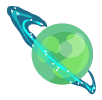
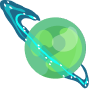
changed CSS classes and ids names

diff --git a/templates/index.html b/templates/index.html
@@ -22,47 +22,47 @@
   </head>
   <body>
     <header>
-      <div class="selectionMenu">
-        <ul id="selectionMenuList">
-          <li class="selectionMenuListElement">
-            <img src="../images/Planet1.png" alt="Planet1" id="planetOne" />
-            <a href="#about" id="selectionMenuAboutRef">Обо мне</a>
+      <div class="selection-menu">
+        <ul id="selection-menu-list">
+          <li class="selection-menu-list-element">
+            <img src="../images/Planet1.png" alt="Planet1" id="planet-one" />
+            <a href="#about" id="selection-menu-about-ref">Обо мне</a>
           </li>
-          <li class="selectionMenuListElement">
-            <img src="../images/Planet2.png" alt="Planet2" id="planetTwo" />
-            <a href="#projects" id="selectionMenuProjectsRef">Проекты</a>
+          <li class="selection-menu-list-element">
+            <img src="../images/Planet2.png" alt="Planet2" id="planet-two" />
+            <a href="#projects" id="selection-menu-projects-ref">Проекты</a>
           </li>
-          <li class="selectionMenuListElement">
-            <img src="../images/Planet3.png" alt="Planet3" id="planetThree" />
-            <a href="#contacts" id="selectionMenuContactsRef">Контакты</a>
+          <li class="selection-menu-list-element">
+            <img src="../images/Planet3.png" alt="Planet3" id="planet-three" />
+            <a href="#contacts" id="selection-menu-contacts-ref">Контакты</a>
           </li>
         </ul>
       </div>
     </header>
 
     <div id="about">
-      <div class="aboutHeader">
-        <h1 class="aboutIntro">Привет! Меня зовут Дима, <br />и я Python Developer!</h1>
-        <img src="../images/about_avatar.jpg" alt="Avatar of Khorkov Dmitriy" class="aboutAvatar" />
+      <div class="about-header">
+        <h1 class="about-intro">Привет! Меня зовут Дима, <br />и я Python Developer!</h1>
+        <img src="../images/about_avatar.jpg" alt="Avatar of Khorkov Dmitriy" class="about-avatar" />
       </div>
-      <div class="aboutDescription">
+      <div class="about-description">
         <h1 id="characteristics">Developer</h1>
         <h1>Обо мне:</h1>
-        <h3 id="aboutInfoText"></h3>
+        <h3 id="about-info-text"></h3>
       </div>
-      <div class="aboutSkills">
+      <div class="about-skills">
         <h1>Что я умею:</h1>
-        <ul id="skillsList">
-          <li class="skillsListElement">Создавать телеграмм ботов</li>
-          <li class="skillsListElement">
+        <ul id="skills-list">
+          <li class="skills-list-element">Создавать телеграмм ботов</li>
+          <li class="skills-list-element">
             Создавать WEB-приложения на основе таких фреймворков как Django и FastApi + HTML, CSS, JavaScript
           </li>
-          <li class="skillsListElement">Создавать REST-api (предпочитаю тот же FastApi под капотом)</li>
-          <li class="skillsListElement">
+          <li class="skills-list-element">Создавать REST-api (предпочитаю тот же FastApi под капотом)</li>
+          <li class="skills-list-element">
             Работать SQL и NOSQL СУБД: PostgreSQL, MySQL, SQLite, MongoDB (предпочитаю через SQLAlchemy)
           </li>
-          <li class="skillsListElement">Изолировать систему через Docker</li>
-          <li class="skillsListElement">
+          <li class="skills-list-element">Изолировать систему через Docker</li>
+          <li class="skills-list-element">
             Работать с сокетами (строил консольную и UI игру по локальной сети на основе Socket и Tkinker библиотек)
           </li>
         </ul>
@@ -72,10 +72,12 @@
     <!-- <div class="divider"></div> -->
 
     <div id="projects">
-      <div class="projectsButtonsGroup">
-        <button class="projectsButton" id="telegramBot">PlantsCareBot</button>
-        <button class="projectsButton" id="djangoWebstore">NataliaToys</button>
-        <button class="projectsButton" id="FastApiTaskManager">TaskManager</button>
+      <div class="projects-buttons-group">
+        <ul id="project-buttons-list">
+          <li><button class="projects-button" id="telegram-bot">PlantsCareBot</button></li>
+          <li><button class="projects-button" id="django-webstore">NataliaToys</button></li>
+          <li><button class="projects-button" id="fast-api-task-manager">TaskManager</button></li>
+        </ul>
       </div>
       <div class="project"></div>
       <div class="project"></div>
@@ -83,23 +85,27 @@
       <div class="project"></div>
     </div>
 
-    <div id="contacts"></div>
+    <div id="contacts">
+      <div id="email">
+        <a href="mailto:alexqwerty35@yandex.ru">alexqwerty35@yandex.ru</a>
+      </div>
+    </div>
 
     <footer>
-      <div class="socialMedia">
-        <div id="socialMediaVk">
+      <div class="social-media">
+        <div id="social-media-vk">
           <a href="https://vk.com/alexqwerty35" target="_blank">
-            <img id="socialMediaVkLogo" src="../images/vk_logo.png" alt="vk.com" />
+            <img id="social-media-vk-logo" src="../images/vk_logo.png" alt="vk.com" />
           </a>
         </div>
-        <div id="socialMediaGitHub">
+        <div id="social-media-git-hub">
           <a href="https://github.com/DKhorkov" target="_blank">
-            <img id="socialMediaGitHubLogo" src="../images/github_logo.png" alt="github.com" />
+            <img id="social-media-git-hub-logo" src="../images/github_logo.png" alt="github.com" />
           </a>
         </div>
-        <div id="socialMediaTelegram">
+        <div id="social-media-telegram">
           <a href="https://t.me/D3M0S666" target="_blank">
-            <img id="socialMediaTelegramLogo" src="../images/telegram_logo.svg" alt="github.com" />
+            <img id="social-media-telegram-logo" src="../images/telegram_logo.svg" alt="github.com" />
           </a>
         </div>
       </div>

diff --git a/static/selection_menu.css b/static/selection_menu.css
@@ -3,16 +3,17 @@
   src: url('../fonts/Space_Agecyrillic_Regular.ttf');
 }
 
-.selectionMenu {
+.selection-menu {
   text-align: center;
 }
 
-#selectionMenuList {
+#selection-menu-list {
   /* Работае только с flex */
   display: flex;
-  flex-wrap: wrap;
+  flex-wrap: wrap; /* Если не влезает в контейнер - переносит на новую строку элементы */
   justify-content: space-around;
   align-items: center;
+  /* flex-direction: row-reverse; */ /* ревертит порядок в столбце */
 
   text-align: center;
   margin-left: 0;
@@ -20,19 +21,14 @@
   height: auto;
 }
 
-.selectionMenuListElement {
+.selection-menu-list-element {
   /* Работае только с flex */
   display: flex;
   align-items: center;
+  gap: 20px; /* Отступ между элементами внутри flex */
 
-  /* text-align: center; */
-  /* margin-top: -15px; */
   list-style-type: none; /* убираем маркер */
   list-style-image: none;
-  /* font-style: normal; */
-  /* font-size: 25px; */
-  /* text-align: center; */
-  /* padding-right: 50px; */
   font-family: 'SpaceAgecyrillic Regular';
   color: #ffffff;
 }
@@ -41,60 +37,26 @@ selectionMenuListElement:last-of-type {
   padding-right: 0px;
 }
 
-#planetOne,
-#planetTwo,
-#planetThree {
-  /* position: absolute; */
-  /* display: inline-block; */
-  /* margin-top: 20px; */
-  /* width: 62px;
-  height: 60px; */
-
-  height: 80px;
+#planet-one,
+#planet-two,
+#planet-three {
+  position: relative; /* Приходится из-за flex */
+  top: 10px;
+  height: 60px;
   width: auto;
 }
 
-/* #planetOne {
-  left: 7%;
-  right: 24%;
-  top: -10%;
-  bottom: 45%;
-}
-
-#planetTwo {
-  left: 40%;
-  right: 24%;
-  top: -10%;
-  bottom: 45%;
-}
-
-#planetThree {
-  left: 70%;
-  right: 24%;
-  top: -10%;
-  bottom: 45%;
-} */
-
-#selectionMenuAboutRef {
+#selection-menu-about-ref,
+#selection-menu-projects-ref,
+#selection-menu-contacts-ref {
   font-weight: 400;
   font-size: 46px;
   line-height: 46px;
+  padding-bottom: 0;
 }
 
-#selectionMenuProjectsRef {
-  font-weight: 400;
-  font-size: 46px;
-  line-height: 46px;
-}
-
-#selectionMenuContactsRef {
-  font-weight: 400;
-  font-size: 46px;
-  line-height: 46px;
-}
-
-#selectionMenuAboutRef:hover,
-#selectionMenuProjectsRef:hover,
-#selectionMenuContactsRef:hover {
+#selection-menu-about-ref:hover,
+#selection-menu-projects-ref:hover,
+#selection-menu-contacts-ref:hover {
   color: blueviolet;
 }

diff --git a/static/social_media.css b/static/social_media.css
@@ -1,59 +1,59 @@
-.socialMedia {
+.social-media {
   /* Делаем отцентровку логотипов соц.сетей */
   display: flex;
   justify-content: center;
 }
 
-#socialMediaVkLogo,
-#socialMediaGitHubLogo,
-#socialMediaTelegramLogo {
+#social-media-vk-logo,
+#social-media-git-hub-logo,
+#social-media-telegram-logo {
   background-color: white;
   margin-right: 20px;
   float: left;
   position: relative;
 }
 
-#socialMediaVkLogo {
+#social-media-vk-logo {
   height: 60px;
   width: 60px;
   margin-top: 13px;
 }
 
-#socialMediaVkLogo:hover {
+#social-media-vk-logo:hover {
   width: 70px;
   height: 70px;
   margin-top: 10px;
   margin-right: 10px; /* делаем, чтобы hover Вк не аффектило лого ГИТхаба (бывший margin - изменения height) */
 }
 
-#socialMediaGitHubLogo {
+#social-media-git-hub-logo {
   margin-top: 25px;
   height: 40px;
   width: 40px;
 }
 
-#socialMediaGitHubLogo:hover {
+#social-media-git-hub-logo:hover {
   width: 45px;
   height: 45px;
   margin-top: 20px;
   margin-right: 15px; /* По аналогии с ВК */
 }
 
-#socialMediaTelegramLogo {
+#social-media-telegram-logo {
   margin-top: 17px;
   height: 55px;
   width: 55px;
 }
 
-#socialMediaTelegramLogo:hover {
+#social-media-telegram-logo:hover {
   width: 65px;
   height: 65px;
   margin-top: 12px;
   margin-right: 10px; /* По аналогии с ВК */
 }
 
-#socialMediaVkLogo:hover,
+#social-media-vk-logo:hover,
 #socialMediaGitHubLogo:hover,
-#socialMediaTelegramLogo:hover {
+#social-media-telegram-logo:hover {
   background-color: blueviolet;
 }

diff --git a/scripts/on_startup.js b/scripts/on_startup.js
@@ -27,7 +27,7 @@ export default class onStartUp {
   updateAboutInfoText() {
     let learningProgramming = (new Date() - this.#startProgramming) / this._years;
     let working = (new Date() - this.#startWorking) / this._years;
-    let tag = document.getElementById('aboutInfoText');
+    let tag = document.getElementById('about-info-text');
     tag.innerHTML = `Занимаюсь программированием  ${learningProgramming.toFixed(2)} года, из которых 
     ${working.toFixed(2)} года enterprise разработкой в GameDev. <br />Параллельно изучаю и применяю технологии
     в рамках своих pet-проектов :)`;

diff --git a/static/projects.css b/static/projects.css
@@ -7,11 +7,20 @@
   background-size: cover;
 }
 
-.projectsButtonsGroup {
+.projects-buttons-group {
   padding-top: 100px;
 }
 
-.projectsButton {
+#project-buttons-list {
+  display: flex;
+  column-gap: 50px;
+  row-gap: 30px;
+  justify-content: center;
+  list-style-type: none;
+  flex-wrap: wrap;
+}
+
+.projects-button {
   font-size: 30px;
   margin-right: 3%;
   padding: 0.3% 1%;
@@ -20,7 +29,7 @@
   background-size: 400%;
 }
 
-.projectsButton:hover {
+.projects-button:hover {
   color: blueviolet;
   border-color: blueviolet;
   animation: animate 6s linear infinite;

diff --git a/static/about.css b/static/about.css
@@ -17,7 +17,7 @@
   padding-bottom: 20px;
 }
 
-.aboutIntro {
+.about-intro {
   text-align: center;
   color: white;
   padding-top: 100px;
@@ -25,7 +25,7 @@
   font-style: italic;
 }
 
-.aboutAvatar {
+.about-avatar {
   object-fit: cover;
   width: 180px;
   height: 180px;
@@ -34,13 +34,13 @@
   border: 5px solid silver;
 }
 
-.aboutDescription,
-.aboutSkills {
+.about-description,
+.about-skills {
   color: white;
   margin-top: 2%;
 }
 
-.skillsListElement {
+.skills-list-element {
   /* text-align: justify; */
   font-size: 20px;
   padding-top: 1%;

diff --git a/static/contacts.css b/static/contacts.css
@@ -5,3 +5,8 @@
   background-position: left;
   background-size: cover;
 }
+
+#email {
+  margin-left: -70%;
+  padding-top: 100px;
+}
